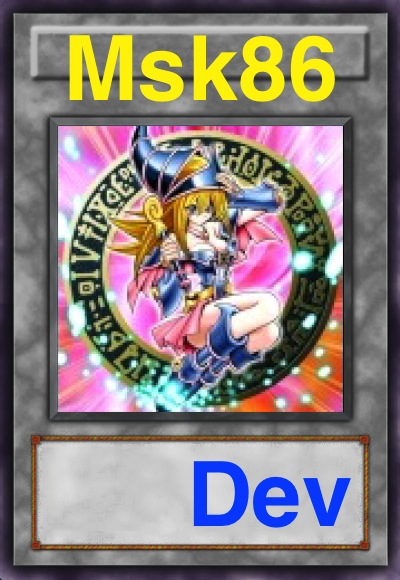
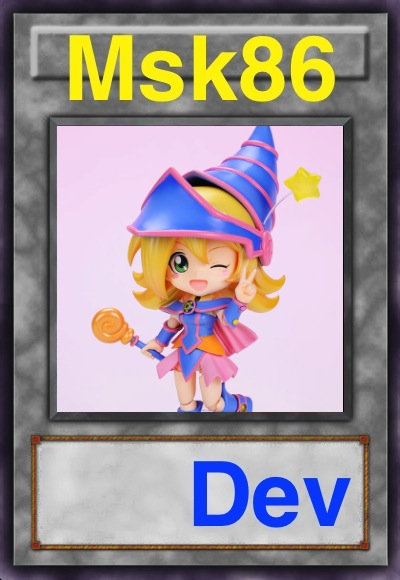
add heaven

diff --git a/src/android/ygo/views/DuelDiskView.java b/src/android/ygo/views/DuelDiskView.java
@@ -71,8 +71,11 @@ public class DuelDiskView extends SurfaceView implements Runnable {
     private void initAbout() {
         DuelFields duelFields = duel.getDuelFields();
         Field f = duelFields.getMonsterField(2);
-        SpCard msk86 = SpCard.createDeveloper();
+        SpCard msk86 = SpCard.createMsk86();
         f.setItem(msk86);
+        f = duelFields.getMagicField(2);
+        SpCard heaven = SpCard.createHeaven();
+        f.setItem(heaven);
         duel.select(msk86, f);
     }
 

diff --git a/src/android/ygo/core/SpCard.java b/src/android/ygo/core/SpCard.java
@@ -13,8 +13,12 @@ public class SpCard extends Card {
 
     }
 
-    public static SpCard createDeveloper() {
+    public static SpCard createMsk86() {
         return new SpCard("-1000", "About", "Developer: Msk86, Email: msk86.kaiser@gmail.com", R.raw.dev_msk86);
+    }
+
+    public static SpCard createHeaven() {
+        return new SpCard("-1000", "About", "Op: Heaven, Email: 20650688@qq.com", R.raw.op_heaven);
     }
 
     @Override
